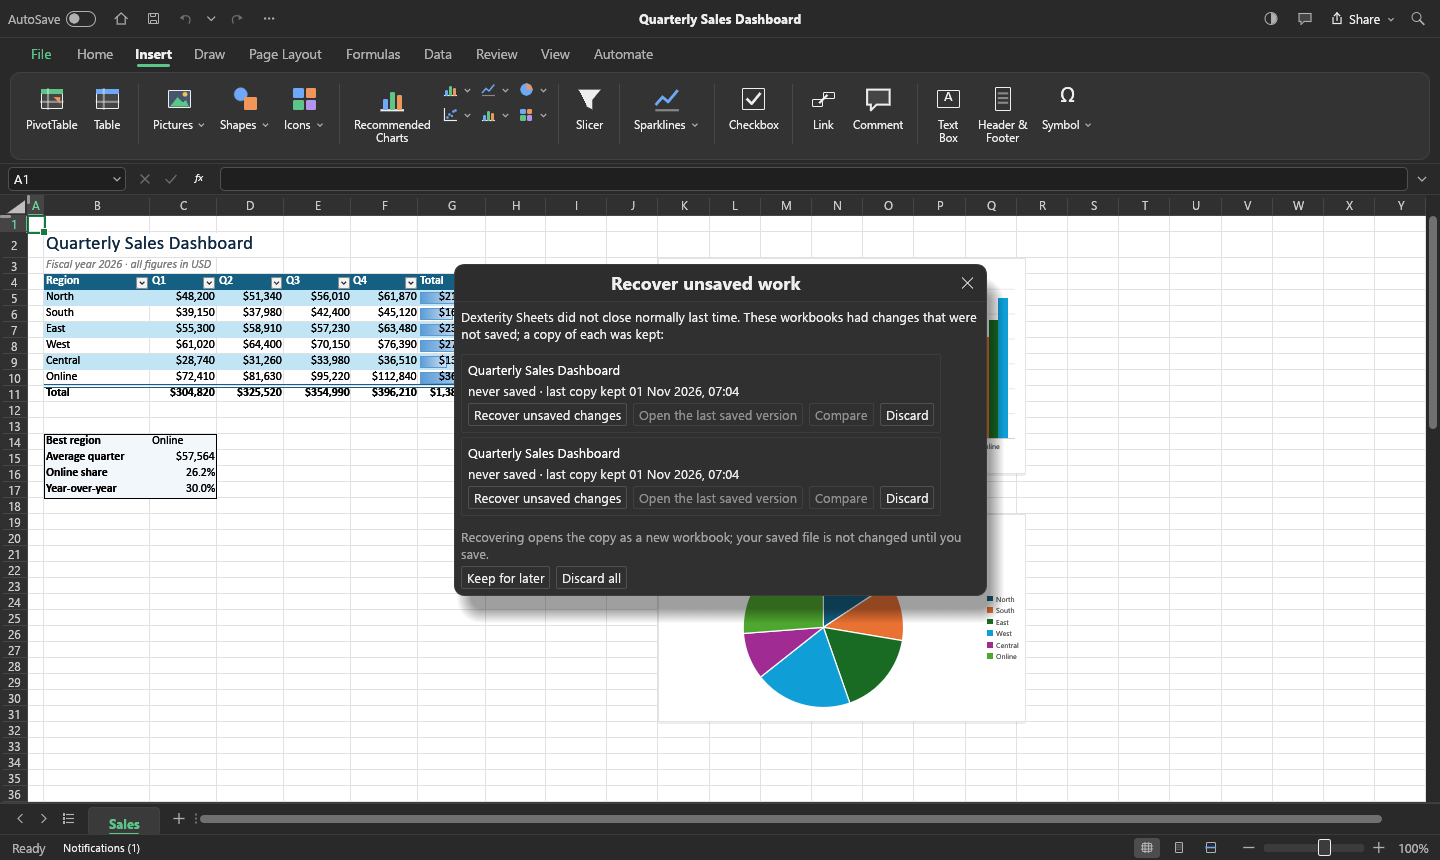
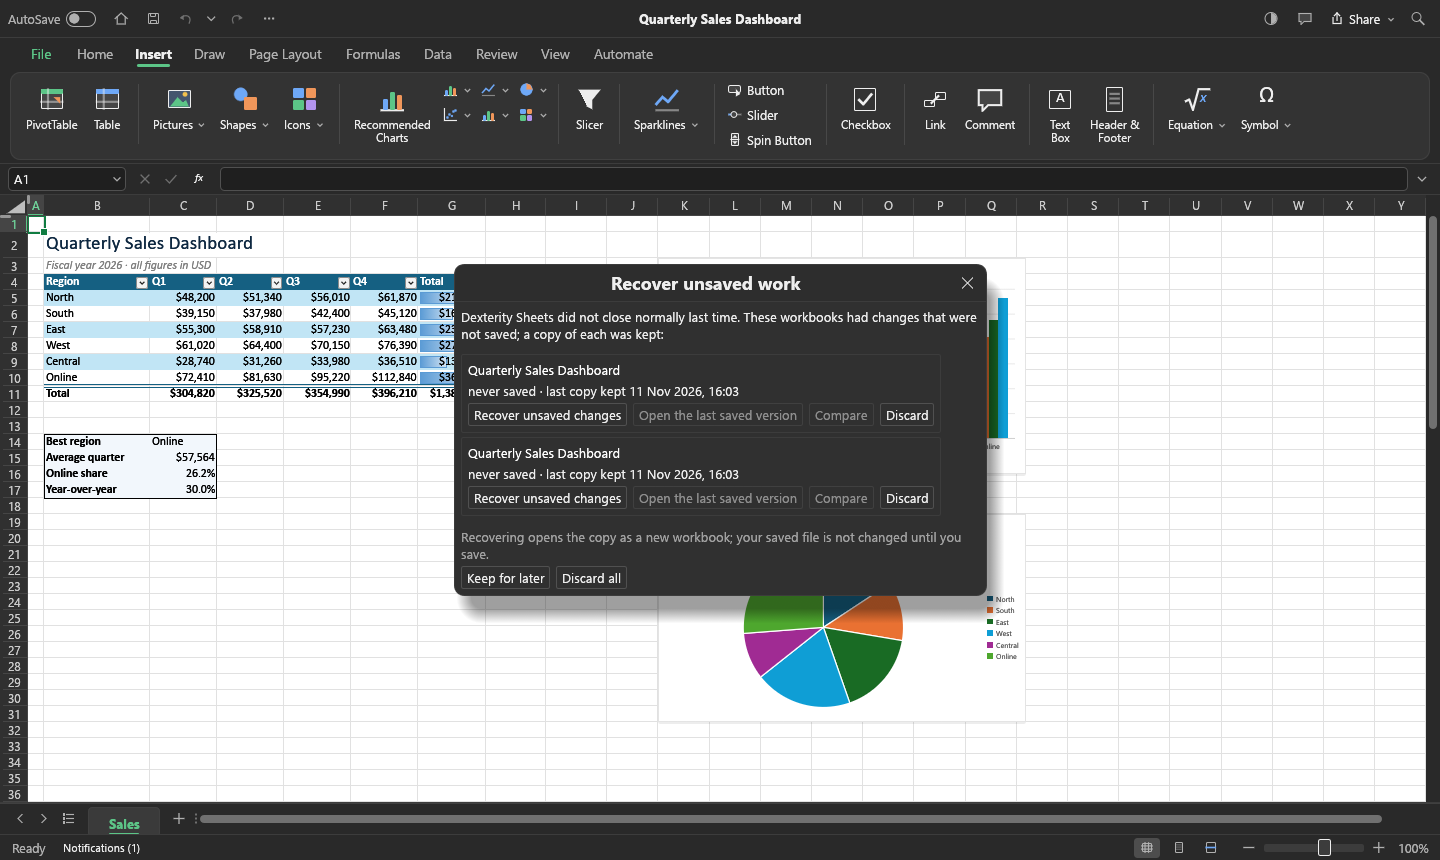
Docs: refresh README and screenshots for 1.5.0

diff --git a/README.md b/README.md
@@ -9,7 +9,7 @@
 </p>
 
 <p align="center">
-  <sub><!-- dex:release -->Version <b>1.4.1</b> · 1 November 2026 · based on GridCraft 0.14.2<!-- /dex:release --> · Windows 10 and 11 · no administrator rights needed · updates itself</sub>
+  <sub><!-- dex:release -->Version <b>1.5.0</b> · 11 November 2026 · based on GridCraft 0.18.0<!-- /dex:release --> · Windows 10 and 11 · no administrator rights needed · updates itself</sub>
 </p>
 
 <p align="center">
@@ -104,7 +104,14 @@
 ## What's new
 
 <!-- dex:whatsnew -->
-[Everything in 1.4.1](https://github.com/vikramdex-ops/dexterity-sheets/releases/tag/v1.4.1)
+- **Now built on GridCraft 0.18.0** (was 0.14.2): everything official GridCraft released in 0.15, 0.16, 0.17 and 0.18 is in this version, 150 merged changes in all. The main ones are below, in GridCraft's own words; the release notes on GitHub list every change.
+- From GridCraft: **Formulas › Function Library** as labelled buttons with category menus, Recently Used, and categories in Insert Function. **Trace Error** draws arrows back to the cell an error starts in.
+- From GridCraft: **Solver** gets Options, Load/Save Model, Reset All and the Sensitivity report; the **Analysis ToolPak** gets two-factor Anova, z-Test, Fourier Analysis, Random Number Generation and Sampling; Goal Seek, Solver and Data Analysis have reference boxes you can point into the sheet with.
+- From GridCraft: **Insert › Equation** with a LaTeX editor (kept in .xlsx files, printed in PDF); **form controls** (buttons, sliders, spin buttons) with Assign Action and Format Control; data tables beneath charts; every floating object is selected the same way, with eight resize handles.
+- From GridCraft: **Python cells** are kept as data: stored, edited and saved as Excel's PY formula (no code runs). A shared spreadsheet carries them to everyone as well.
+- From GridCraft: opens **SYLK (.slk)** files and a web page's table saved as .xls; reads cell formatting from .xls files; a workbook keeps its sheet-tab and scroll-bar settings, its R1C1 reference style and "remove personal information on save" through open and save; checkboxes no longer make Excel repair the file.
+
+[Everything in 1.5.0](https://github.com/vikramdex-ops/dexterity-sheets/releases/tag/v1.5.0) and 4 more.
 <!-- /dex:whatsnew -->
 
 Dexterity Sheets is built on the open-source [GridCraft](https://github.com/storytold/gridcraft)

diff --git a/packaging/dexterity/CHANGES.md b/packaging/dexterity/CHANGES.md
@@ -9,6 +9,8 @@ its newest changes); the release notes on GitHub list every one of them with its
 
 ## Unreleased
 
+## 1.5.0 · 11 November 2026
+
 - **Now built on GridCraft 0.18.0** (was 0.14.2): everything official GridCraft released in 0.15, 0.16, 0.17 and 0.18 is in this version, 150 merged changes in all. The main ones are below, in GridCraft's own words; the release notes on GitHub list every change.
 - From GridCraft: **Formulas › Function Library** as labelled buttons with category menus, Recently Used, and categories in Insert Function. **Trace Error** draws arrows back to the cell an error starts in.
 - From GridCraft: **Solver** gets Options, Load/Save Model, Reset All and the Sensitivity report; the **Analysis ToolPak** gets two-factor Anova, z-Test, Fourier Analysis, Random Number Generation and Sampling; Goal Seek, Solver and Data Analysis have reference boxes you can point into the sheet with.
